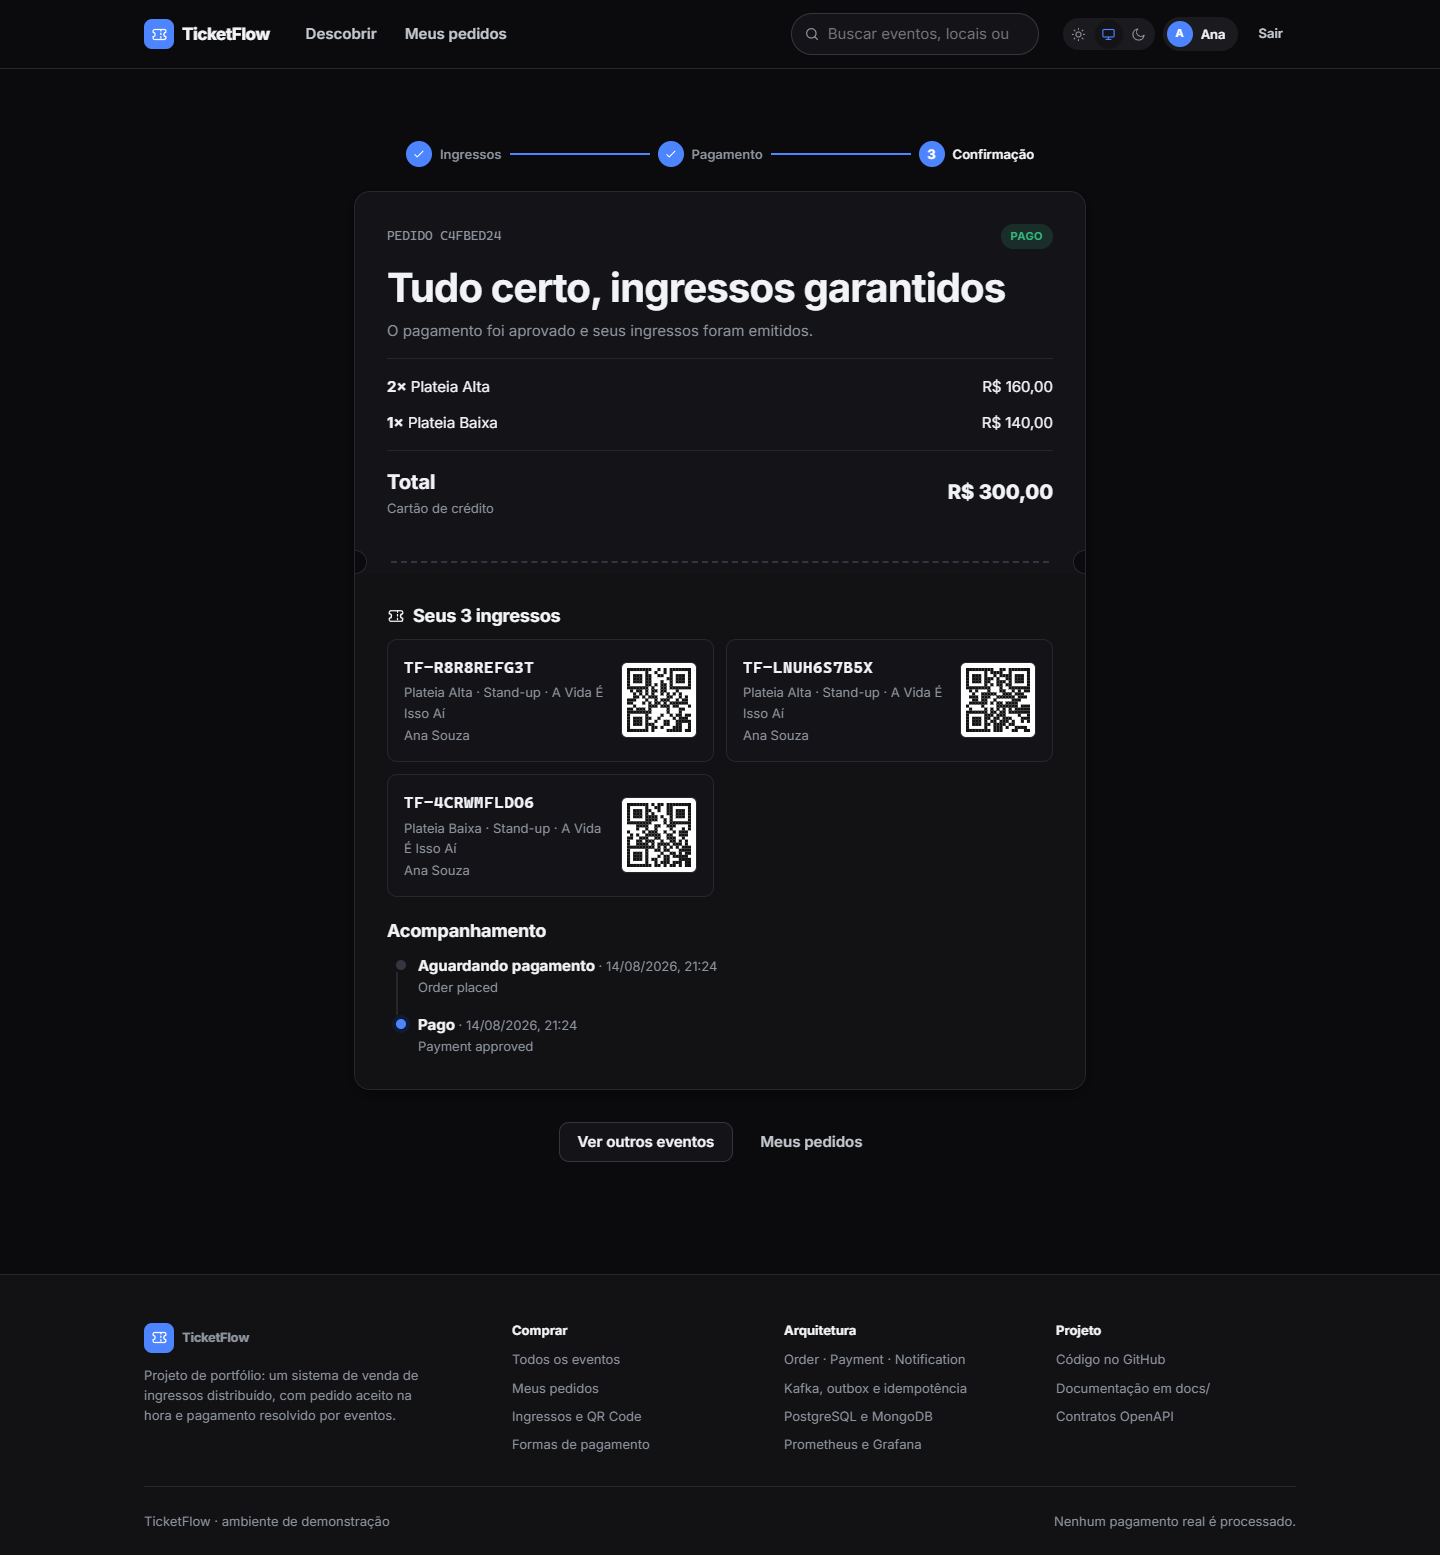
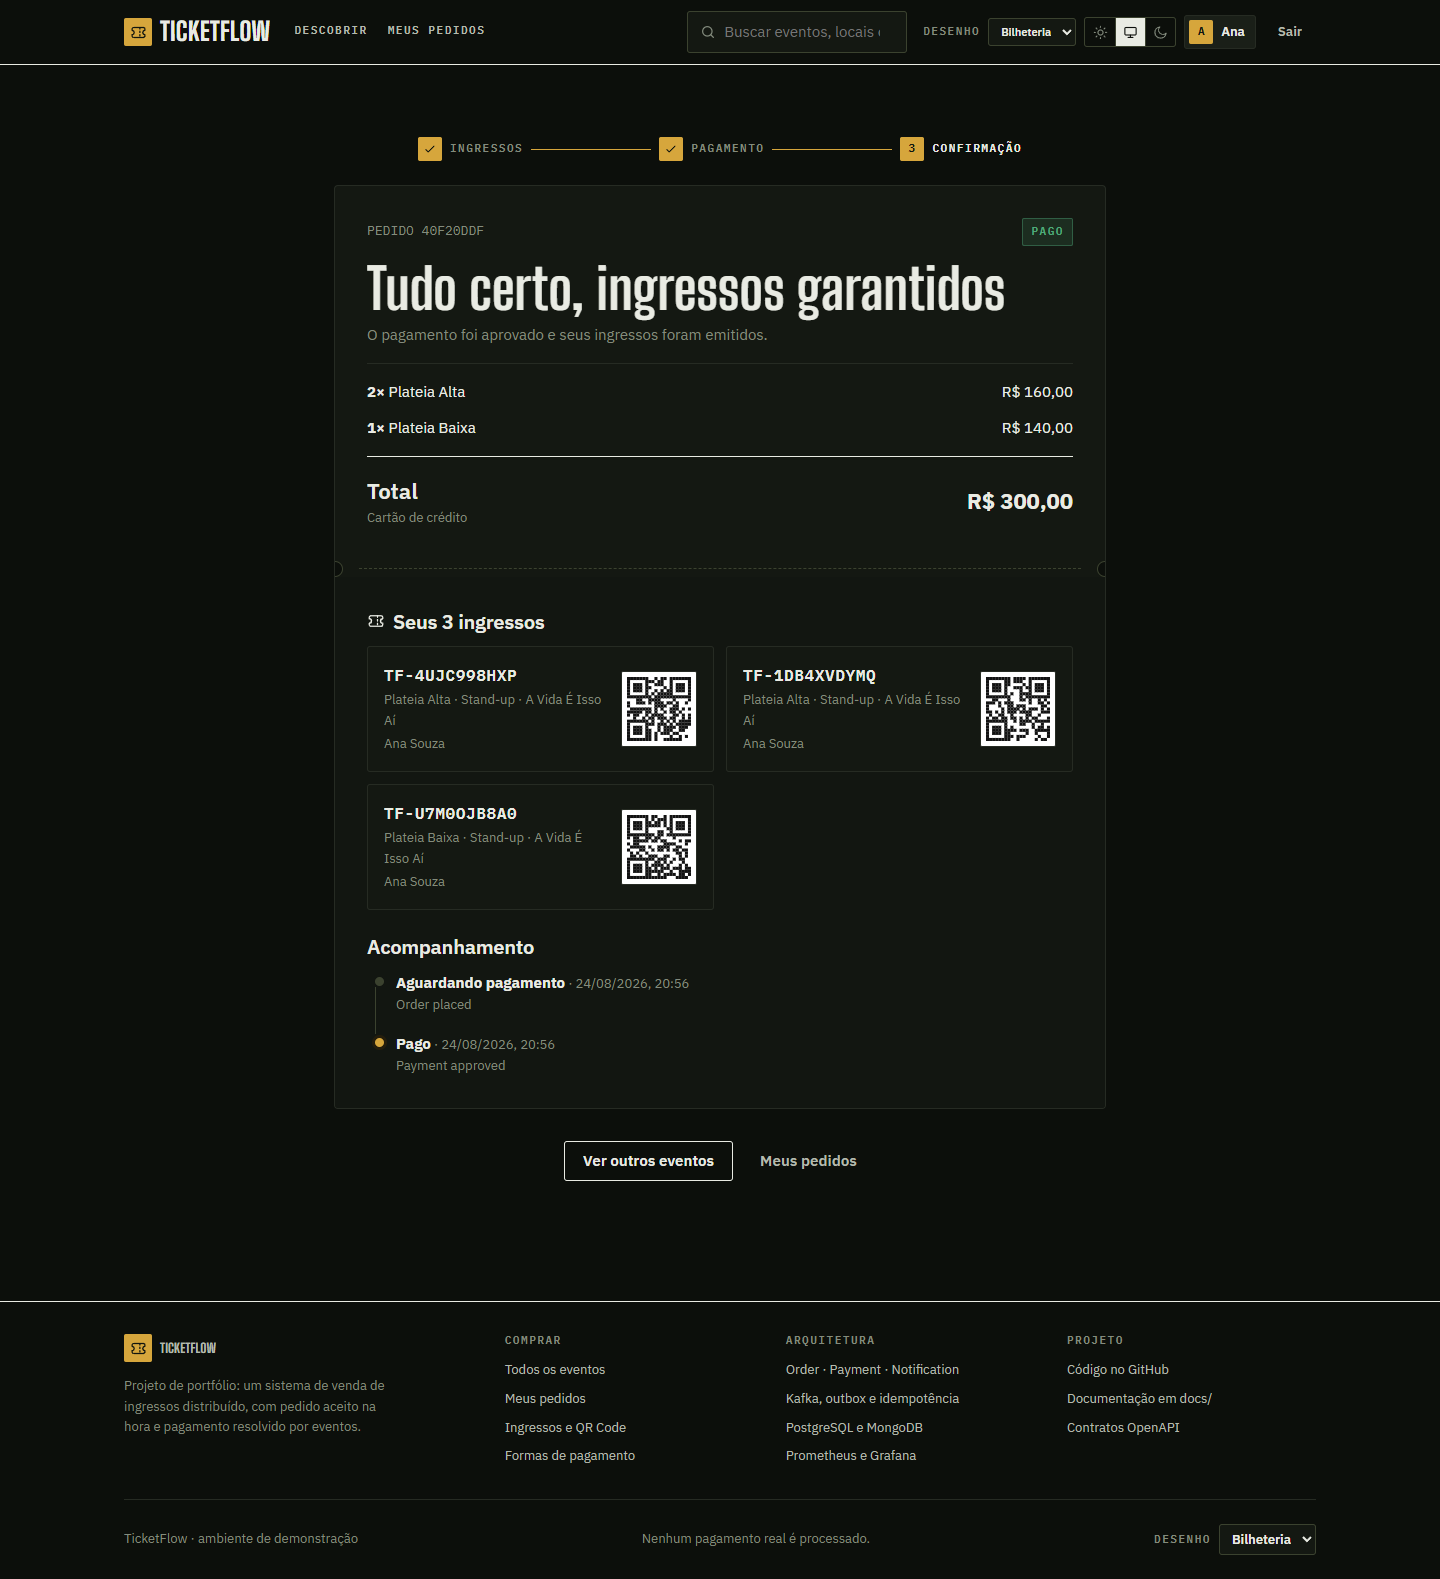
docs: acertar o que ficou para trás das quatro peles
Auditoria de toda a documentação depois do redesenho, mais os prints
refeitos contra o stack rodando.

Correções de fato errado:

- docs/05-roadmap-produto.md dizia "six CSS files"; são dez desde que as
  peles ganharam arquivo próprio.
- docs/04-frontend.md abria a seção "Design system" afirmando que não há
  azul de produto em lugar nenhum. Era verdade quando existia uma pele
  só; com Palco e Clássico construídos justamente sobre o #0052ff, a
  frase passou a mentir. A seção agora diz de qual pele está falando.
- README descrevia o sistema de design como "toda cor vem de
  tokens.css". As cores das outras três peles vêm de um arquivo de
  valores cada.

CLAUDE.md ganha a seção que faltava sobre a arquitetura de peles. Não é
resumo: são as regras que uma sessão futura descobriria doendo, com a
razão de cada uma — por que flat.css é escopado por :not() e não por
lista, por que sobrescrita de pele precisa de :root na frente, por que
regra de grade em pele precisa de guarda de largura, e por que o seletor
não pode ter estado próprio.

Dois defeitos achados na própria auditoria:

- capture.mjs esperava `.event-card a`, que a pele padrão não tem — ela
  usa `.event-ticket`. O roteiro morria depois de 30s contra uma tela que
  estava funcionando. Passou a usar `.stretched`, o link esticado que
  existe nas quatro peles.
- O <select> de desenho carregava nome e descrição no texto da opção, e
  como o campo fechado mostra a opção escolhida, o cabeçalho exibia
[…]

diff --git a/frontend/src/styles/components.css b/frontend/src/styles/components.css
@@ -1219,10 +1219,14 @@
 }
 
 /* A lista aberta é desenhada pelo sistema operacional, não por nós; o que cabe
-   aqui é o campo fechado. `text-overflow` porque a opção traz o nome e a
-   descrição — o nome é o que precisa caber. */
+   aqui é o campo fechado.
+
+   Sem `max-width`: um <select> nativo já se dimensiona pela opção mais larga, e
+   qualquer teto em `ch` erra — a unidade acompanha o corpo da fonte, e no
+   cabeçalho ele é menor, então o mesmo valor que servia no rodapé cortava
+   "Bilheteria" em "Bilhete…". Fora isso o campo ainda reserva uns 20px para a
+   seta, que `ch` nenhum enxerga. */
 .skin-select {
-  max-width: 15ch;
   padding: 0.3125rem 0.5rem;
   background: var(--surface);
   border: 1px solid var(--border-strong);
@@ -1230,7 +1234,6 @@
   color: var(--text);
   font-size: var(--text-sm);
   font-weight: 600;
-  text-overflow: ellipsis;
   transition: border-color var(--duration) var(--ease), box-shadow var(--duration) var(--ease);
 }
 
@@ -1254,7 +1257,6 @@
 }
 
 .site-header .skin-select {
-  max-width: 11ch;
   font-size: var(--text-xs);
 }
 

diff --git a/frontend/src/components/SkinToggle.tsx b/frontend/src/components/SkinToggle.tsx
@@ -34,18 +34,27 @@ export function SkinToggle() {
         Desenho
       </label>
 
+      {/* A opção carrega só o nome. O campo fechado mostra o texto da opção
+          escolhida, então juntar nome e descrição ali deixava "Bilh…" no
+          cabeçalho. A descrição de cada desenho vira legenda de leitor de
+          tela, fora do texto que precisa caber na linha. */}
       <select
         id={id}
         className="skin-select"
         value={skin}
+        aria-describedby={`${id}-hint`}
         onChange={(event) => applySkin(event.target.value as Skin)}
       >
         {SKINS.map((option) => (
           <option key={option.value} value={option.value}>
-            {option.label} — {option.hint}
+            {option.label}
           </option>
         ))}
       </select>
+
+      <span className="sr-only" id={`${id}-hint`}>
+        {SKINS.map((option) => `${option.label}: ${option.hint}.`).join(' ')}
+      </span>
     </div>
   );
 }

diff --git a/CLAUDE.md b/CLAUDE.md
@@ -219,6 +219,42 @@ The other services copy these choices rather than reinventing them.
   file and the Kubernetes ConfigMap turn it on. Open, `/actuator/prometheus` gives away
   order volume, approved and declined amounts, every route and the JVM version.
 
+## Frontend: the skin system
+
+The site ships four complete designs on an axis separate from light/dark, chosen by the
+visitor and stored in `data-skin` on `<html>`. `boxoffice` is the default; `stage`
+and `poster` are the two redesign directions; `classic` is the original.
+
+- **Every skin reuses the same token *names*.** A file of values under
+  `src/styles/skins/` is most of a skin. Renaming a token to suit one skin means
+  editing every rule that reads it — do not.
+- **`skins/flat.css` holds the rectangular layout** shared by `classic`, `stage` and
+  `poster`. It is scoped `:not([data-skin='boxoffice'])` rather than a list of skins,
+  so a new flat skin works without touching it. A list would mean a screen with no
+  styling at all the day somebody forgets to add a name to it.
+- **Per-skin overrides must be written `:root[data-skin='…']`.** `flat.css` selectors
+  carry two attributes and score (0,3,0); a plain `[data-skin='poster'] h1` scores
+  (0,2,0) and loses **in silence**. That is how the Cartaz headings stayed in the
+  grotesque and its date badge kept showing on a grid that has no date badge.
+- **A skin rule that sets a grid needs a width guard.** The same (0,3,0) beats the
+  `@media (max-width: 1000px)` collapse in `views.css`, which is (0,1,0). Without the
+  guard the filter rail stayed 240px wide on a phone and the whole page scrolled
+  sideways.
+- **Only two components change markup with the skin** — the event card and the top of
+  the home page — and both branch on `usesFlatLayout()`. Everything else is CSS. Adding
+  a third branch is a sign the skin wants a token instead.
+- **The skin control renders twice and holds no state.** Both copies read `useSkin()`,
+  which is `useSyncExternalStore` over the same attribute the CSS reads. A `useState`
+  per instance made the header and the footer disagree, with two controls showing
+  different answers at once. Anything rendered twice needs `useId` too: fixed ids made
+  every `aria-labelledby` point at the first copy.
+- **Fonts are served by the site, never by a CDN.** `font-src 'self'` in the CSP, same
+  decision already taken for the venue photographs. Only the `latin` subsets are
+  preloaded; `latin-ext` is declared and fetched only if a character needs it.
+- **`capture.mjs` selects `.stretched`, not `.event-card a`.** The default skin has no
+  `.event-card`, and the old selector made the screenshot script hang for thirty
+  seconds against a screen that was working fine.
+
 ## Deployment traps that already cost a red deploy
 
 - **A `sync: false` variable is not created by an automatic blueprint sync.** Render has

diff --git a/docs/04-frontend.md b/docs/04-frontend.md
@@ -112,14 +112,18 @@ Exactly **two** places change markup rather than styling, and both branch in Rea
 palette follows the skin too — a box office poster inside the blue rounded card, or a blue
 one on warm paper, does not look like the same site.
 
-## Design system
+## Design system: the box office skin
 
 Everything comes from `src/styles/tokens.css`. **No component writes a hex value** — if
 one does, the dark theme never reaches that part of the screen, and that is always how a
 dark mode ends up half-finished.
 
-The direction is a **box office**: bone paper, near-black ink, brass fittings, and the
-red of the curtain kept for the things that go wrong. There is no product blue anywhere,
+What follows describes `boxoffice`, the default. The other three carry their own values
+for the same token names; `stage` and `classic` are built on the brand blue this one
+refuses.
+
+Its direction is a **box office**: bone paper, near-black ink, brass fittings, and the
+red of the curtain kept for the things that go wrong. There is no product blue in it,
 because the subject is a theatre and a stadium, not a dashboard.
 
 - **Brass** — the hardware. Two values, not one: `--brand-500` fills buttons and markers,

diff --git a/README.md b/README.md
@@ -72,6 +72,10 @@ cd frontend && npm run dev
 node scripts/screenshots/capture.mjs
 ```
 
+Every shot below is the default skin, `boxoffice`. The site carries three others and a
+control in the header switches between them live — see
+[Four complete designs](#frontend).
+
 ### Browsing
 
 | | |
@@ -469,8 +473,9 @@ attention than it saves.
 
 Seven routes with real URLs: home, discover, event, checkout, order, my orders, sign in.
 
-- **A design system in CSS custom properties.** Every colour comes from
-  `styles/tokens.css`; no component writes a hex value.
+- **A design system in CSS custom properties.** No component writes a hex value: colours
+  come from `styles/tokens.css` and, for the other skins, from one file of values each.
+  A component that writes its own hex is a component the dark theme never reaches.
 - **Three-state theming** — light, dark, and *system*. Without the third, whoever chose
   once is stuck with that choice, and almost nobody returns to fix it.
 - **Four complete designs, switchable live.** `boxoffice` — bone paper, brass, signage

diff --git a/docs/05-roadmap-produto.md b/docs/05-roadmap-produto.md
@@ -132,7 +132,7 @@ page looks like care and turns into stuck inventory.
 
 **Microfrontends.** There are seven screens.
 
-**A third-party component library.** The design system here is six CSS files and no
+**A third-party component library.** The design system here is ten CSS files and no
 runtime. Pulling in a whole library to reuse a button and a modal would cost more than
 the two components.
 
